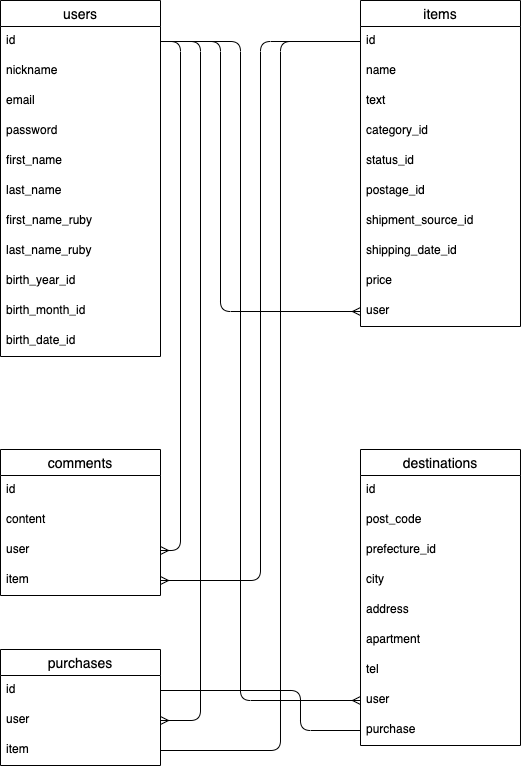
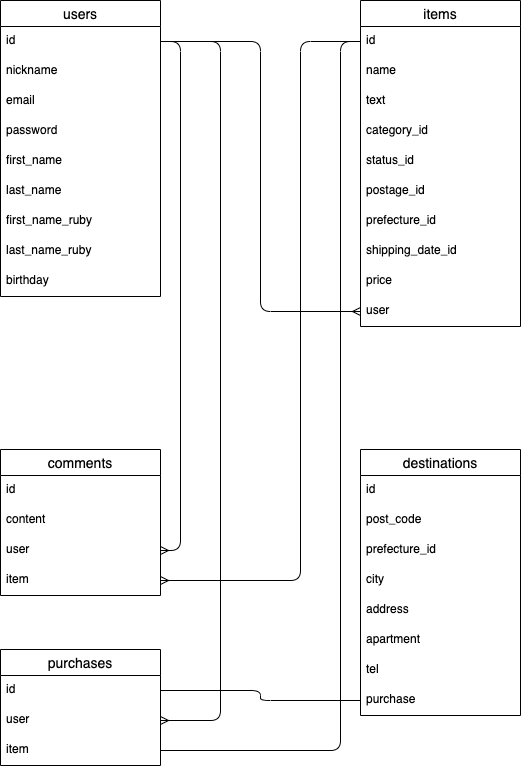
カラム情報の変更、アソシエーションの削除

diff --git a/README.md b/README.md
@@ -9,16 +9,13 @@
 | last_name          | string  | null: false               |
 | first_name_ruby    | string  | null: false               |
 | last_name_ruby     | string  | null: false               |
-| birth_year_id      | integer | null: false               |
-| birth_month_id     | integer | null: false               |
-| birth_date_id      | integer | null: false               |
+| birthday           | date    | null: false               |
 
 ### Association
 
 - has_many :items
 - has_many :comments
 - has_many :purchases
-- has_many :destinations
 
 ## itemsテーブル
 
@@ -29,7 +26,7 @@
 | category_id        | integer    | null: false                    |
 | status_id          | integer    | null: false                    |
 | postage_id         | integer    | null: false                    |
-| shipment_source_id | integer    | null: false                    |
+| prefecture_id      | integer    | null: false                    |
 | shipping_date_id   | integer    | null: false                    |
 | price              | integer    | null: false                    |
 | user               | references | null: false, foreign_key: true |
@@ -76,10 +73,8 @@
 | address        | string     | null: false                    |
 | apartment      | string     |                                |
 | tel            | string     | null: false                    |
-| user           | references | null: false, foreign_key: true |
 | purchase       | references | null: false, foreign_key: true |
 
 ### Association
 
-- belongs_to :user
 - belongs_to :purchase
